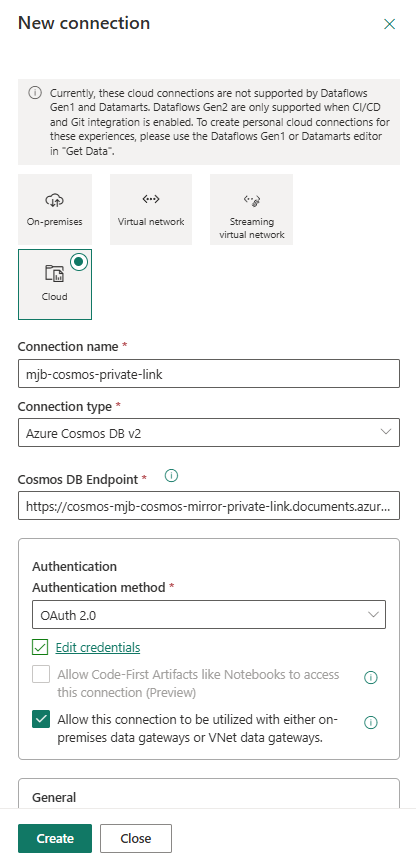
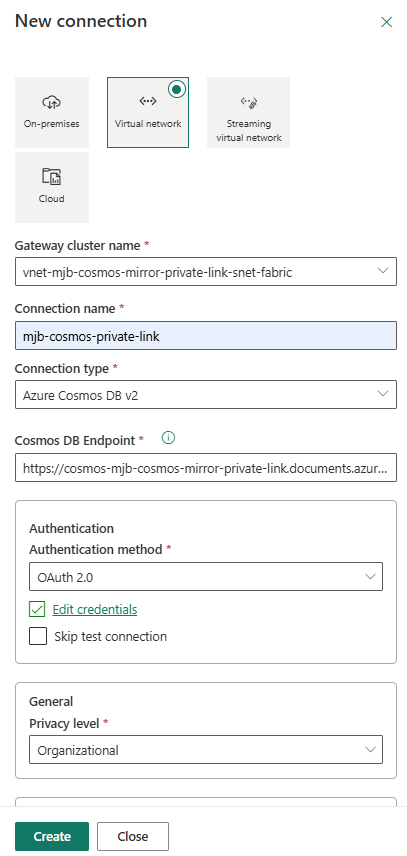
Docs: correct Step 7 to Virtual network connectivity (revert Cloud/checkbox)
The connection must be created with Virtual network connectivity and a Gateway
cluster name (the VNet data gateway) — not Cloud. Replaced the screenshot with the
corrected dialog and rewrote Step 7 with the exact fields shown: Virtual network,
Gateway cluster name, Connection name, Connection type (Azure Cosmos DB v2), Cosmos
DB Endpoint, Authentication method OAuth 2.0 + Edit credentials, Privacy level
Organizational, Create. Removed the 'allow through gateways' checkbox guidance,
which only applies to the Cloud path.

Copilot-Session: 74c2353f-74d6-4cd1-8891-f73f48d915a9

diff --git a/docs/mirroring-over-private-link.md b/docs/mirroring-over-private-link.md
@@ -258,21 +258,23 @@ Update-AzCosmosDBAccount -ResourceGroupName $RG -Name $ACCT -NetworkAclBypass Az
 ## Step 7 — Create the Azure Cosmos DB v2 connection (OAuth)
 
 1. Still under **Manage connections and gateways**, open **Connections → + New**.
-2. Leave the connection type as **Cloud** (the default tile).
-3. **Connection name:** a name (for example, `mjb-cosmos-private-link`).
-   **Connection type:** `Azure Cosmos DB v2`.
-4. **Cosmos DB Endpoint:** `https://<account-name>.documents.azure.com:443/`
-5. **Authentication method:** **OAuth 2.0** → select **Edit credentials** and sign in.
-6. **Check** *"Allow this connection to be utilized with either on-premises data gateways or
-   VNet data gateways."* This is **required** — it lets the OAuth cloud connection route
-   through your VNet data gateway to reach the private endpoint. Left unchecked, the
-   connection is cloud-only and can't reach the private-network account, so mirroring fails.
-7. Select **Create**.
+2. For the connectivity type, select **Virtual network**.
+3. **Gateway cluster name:** select the VNet Data Gateway created in Step 6
+   (for example, `vnet-<env>-snet-fabric`).
+4. **Connection name:** a name (for example, `mjb-cosmos-private-link`).
+5. **Connection type:** `Azure Cosmos DB v2`.
+6. **Cosmos DB Endpoint:** `https://<account-name>.documents.azure.com:443/`
+7. **Authentication method:** **OAuth 2.0** → select **Edit credentials** and sign in.
+   (Leave **Skip test connection** unchecked so the connection is validated.)
+8. **Privacy level:** **Organizational**.
+9. Select **Create**.
 
-![Fabric — New connection dialog for Azure Cosmos DB v2 with the VNet data gateways checkbox enabled](media/private-link-mirroring/10-fabric-new-connection-cosmos-v2.png)
+![Fabric — New connection dialog: Virtual network connectivity, Gateway cluster name, Azure Cosmos DB v2, OAuth 2.0](media/private-link-mirroring/10-fabric-new-connection-cosmos-v2.png)
 
 > Private-network mirroring supports **OAuth-based authentication only**. This is the one step
-> that always requires an interactive sign-in.
+> that always requires an interactive sign-in. Selecting **Virtual network** connectivity and a
+> **Gateway cluster name** is what routes the connection through your VNet data gateway to the
+> private endpoint.
 
 ## Step 8 — Create the mirrored database
 
